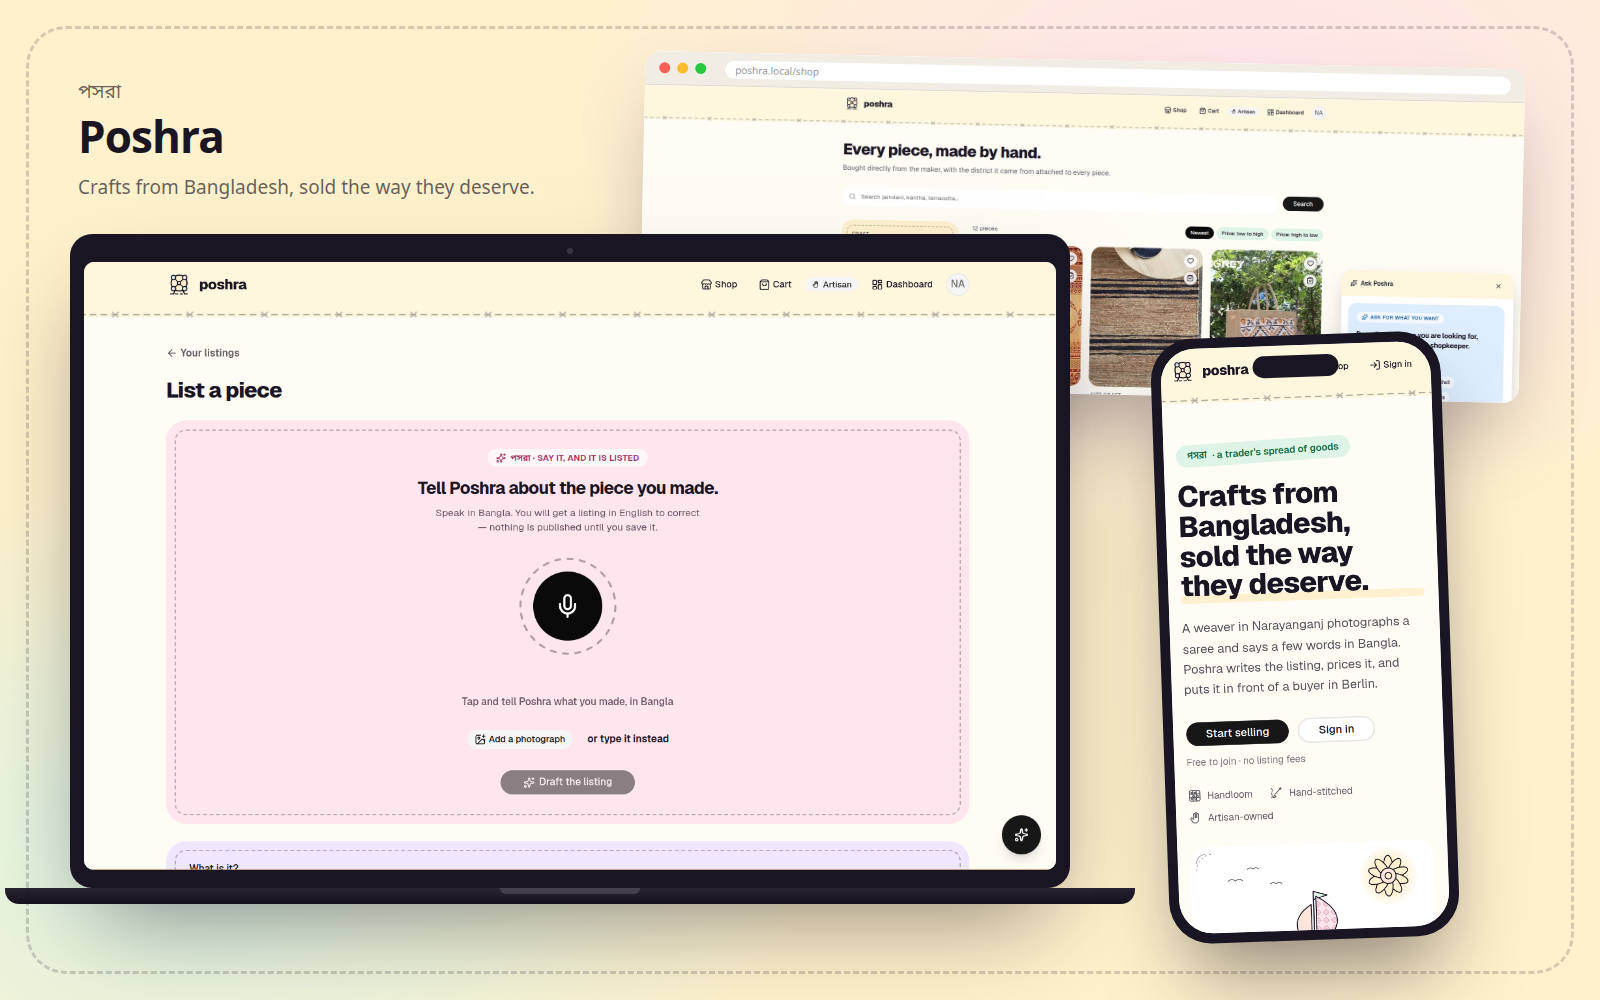
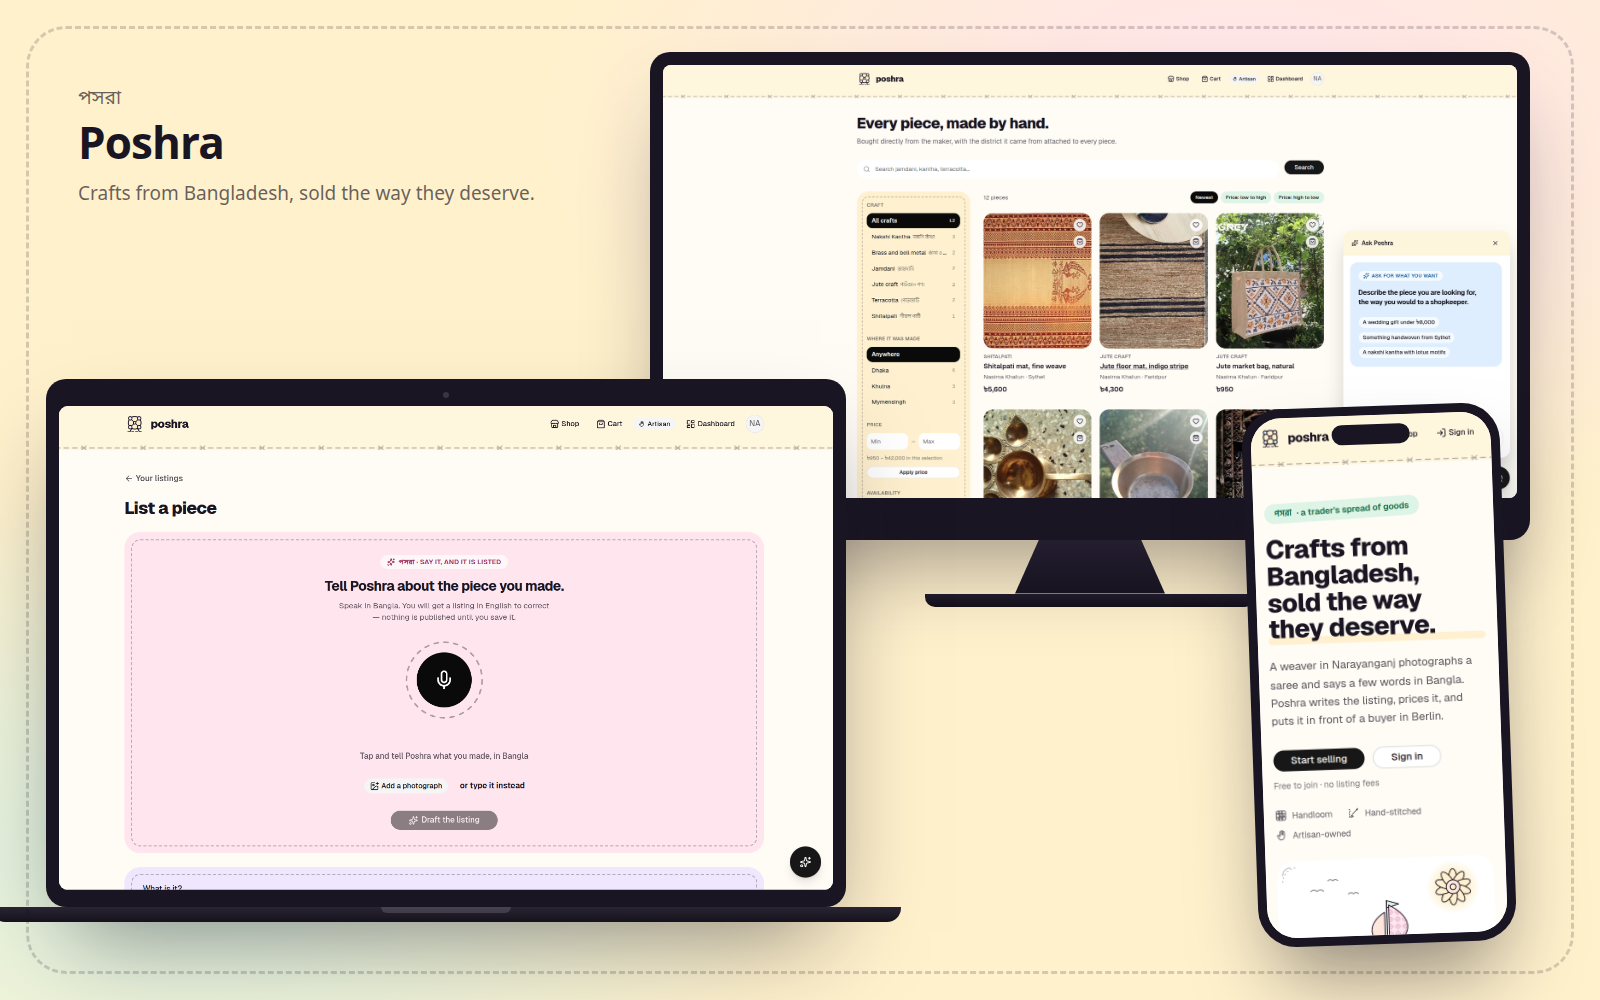
docs: rebuild the hero around three screens
A monitor with the shop, a laptop with the page an artisan speaks a listing
into, a phone with the same shop in a hand. Three devices carrying the three
things the project claims, with nothing repeated between them.

The drafting page keeps the laptop because it has to be read rather than
recognised: a grid of craft photographs says what it is at any size, a
microphone and one sentence do not.

diff --git a/docs/assets/hero.html b/docs/assets/hero.html
@@ -3,13 +3,12 @@
   <head>
     <meta charset="utf-8" />
     <style>
-      /* Composition for the README hero: a laptop with the page an artisan
-         speaks a listing into, the shop in a browser window behind it, and
-         the mobile storefront on a phone in front. Three things the project
-         claims, in one picture.
-         The drafting page takes the laptop because it is the one that has to
-         be read rather than recognised: the shop is legible as a grid of
-         photographs at any size, a microphone and a sentence are not. */
+      /* Composition for the README hero, three devices with three jobs.
+         The monitor carries the shop, which is what the thing is. The
+         laptop carries the page an artisan speaks a listing into, which is
+         what makes it different — and it has to be read rather than
+         recognised, so it gets a surface nothing crops. The phone says the
+         same storefront works in a hand. */
       :root {
         --ink: #1a1523;
         --cream: #fffcf5;
@@ -43,62 +42,56 @@
 
       .stage { position: absolute; inset: 0; }
 
-      /* ---------- browser window (behind) ---------- */
-      .browser {
-        position: absolute;
-        top: 60px;
-        right: 78px;
-        width: 880px;
-        border-radius: 16px;
+      /* ---------- monitor (back) ---------- */
+      .monitor { position: absolute; top: 52px; right: 70px; width: 880px; }
+      .monitor .panel {
+        background: var(--ink);
+        border-radius: 20px;
+        /* A wider chin than bezel: what makes a monitor read as a monitor. */
+        padding: 13px 13px 42px;
+        box-shadow: 0 45px 80px -25px rgba(26, 21, 35, 0.42);
+      }
+      .monitor .screen {
+        border-radius: 8px;
         overflow: hidden;
         background: #fff;
-        box-shadow: 0 40px 80px -20px rgba(26, 21, 35, 0.35);
-        transform: rotate(1.2deg);
       }
-      .chrome {
-        height: 34px;
-        background: #f1ece4;
-        display: flex;
-        align-items: center;
-        gap: 7px;
-        padding: 0 14px;
-        border-bottom: 1px solid rgba(26, 21, 35, 0.08);
-      }
-      .dot { width: 11px; height: 11px; border-radius: 50%; }
-      .bar {
-        margin-left: 12px;
-        height: 18px;
-        flex: 1;
-        border-radius: 9px;
-        background: #fff;
-        display: flex;
-        align-items: center;
-        padding: 0 10px;
-        font-size: 10px;
-        color: rgba(26, 21, 35, 0.5);
-      }
-      /* The window shows the top of the shop; the rest of that page is more
-         of the same grid, and the laptop is in front of it anyway. */
-      .browser .shot { position: relative; overflow: hidden; height: 300px; }
-      .browser .shot img {
+      .monitor .screen img { display: block; width: 100%; }
+      .monitor .badge {
         position: absolute;
-        display: block;
-        width: 880px;
-        max-width: none;
-        left: 0;
-        top: 0;
+        bottom: 14px;
+        left: 50%;
+        transform: translateX(-50%);
+        width: 54px;
+        height: 7px;
+        border-radius: 4px;
+        background: rgba(255, 255, 255, 0.16);
+      }
+      .monitor .neck {
+        width: 150px;
+        height: 54px;
+        margin: 0 auto;
+        background: linear-gradient(#241e30, #17131f);
+        clip-path: polygon(16% 0, 84% 0, 100% 100%, 0 100%);
+      }
+      .monitor .foot {
+        width: 330px;
+        height: 13px;
+        margin: 0 auto;
+        border-radius: 0 0 10px 10px;
+        background: linear-gradient(#211b2c, #131019);
       }
 
-      /* ---------- laptop (main) ---------- */
-      .laptop { position: absolute; left: 70px; bottom: 96px; width: 1000px; }
+      /* ---------- laptop (front left) ---------- */
+      .laptop { position: absolute; left: 46px; bottom: 78px; width: 800px; }
       .laptop .lid {
         background: var(--ink);
-        border-radius: 22px;
-        padding: 14px 14px 18px;
+        border-radius: 20px;
+        padding: 13px 13px 17px;
         box-shadow: 0 50px 90px -25px rgba(26, 21, 35, 0.5);
       }
       .laptop .screen {
-        border-radius: 10px;
+        border-radius: 9px;
         overflow: hidden;
         background: #fff;
       }
@@ -108,45 +101,45 @@
         background: #3b3542; margin: 0 auto 8px;
       }
       .laptop .base {
-        width: 1130px;
-        margin-left: -65px;
-        height: 16px;
+        width: 910px;
+        margin-left: -55px;
+        height: 15px;
         background: linear-gradient(#2a2433, #15121c);
         border-radius: 0 0 14px 14px;
         position: relative;
       }
       .laptop .notch-base {
         position: absolute; left: 50%; transform: translateX(-50%);
-        width: 140px; height: 6px; border-radius: 0 0 8px 8px;
+        width: 130px; height: 6px; border-radius: 0 0 8px 8px;
         background: rgba(255, 255, 255, 0.14);
       }
 
-      /* ---------- phone (front) ---------- */
+      /* ---------- phone (front right) ---------- */
       .phone {
         position: absolute;
-        right: 150px;
-        bottom: 60px;
-        width: 290px;
+        right: 92px;
+        bottom: 56px;
+        width: 258px;
         background: var(--ink);
-        border-radius: 42px;
-        padding: 10px;
+        border-radius: 38px;
+        padding: 9px;
         box-shadow: 0 45px 80px -20px rgba(26, 21, 35, 0.5);
         transform: rotate(-2deg);
       }
       .phone .screen {
-        border-radius: 34px;
+        border-radius: 30px;
         overflow: hidden;
         background: #fff;
         position: relative;
       }
       .phone .screen img { display: block; width: 100%; }
       .phone .island {
-        position: absolute; top: 10px; left: 50%; transform: translateX(-50%);
-        width: 86px; height: 22px; border-radius: 12px; background: var(--ink);
+        position: absolute; top: 9px; left: 50%; transform: translateX(-50%);
+        width: 78px; height: 20px; border-radius: 11px; background: var(--ink);
       }
 
       /* ---------- caption ---------- */
-      .caption { position: absolute; left: 78px; top: 70px; }
+      .caption { position: absolute; left: 78px; top: 76px; }
       .caption h1 {
         font-size: 44px; letter-spacing: -0.02em; color: var(--ink); font-weight: 800;
       }
@@ -162,14 +155,13 @@
         <p>Crafts from Bangladesh, sold the way they deserve.</p>
       </div>
 
-      <div class="browser">
-        <div class="chrome">
-          <span class="dot" style="background: #ff5f57"></span>
-          <span class="dot" style="background: #febc2e"></span>
-          <span class="dot" style="background: #28c840"></span>
-          <span class="bar">poshra.local/shop</span>
+      <div class="monitor">
+        <div class="panel">
+          <div class="screen"><img src="cap-shop.png" alt="" /></div>
+          <div class="badge"></div>
         </div>
-        <div class="shot"><img src="cap-shop.png" alt="" /></div>
+        <div class="neck"></div>
+        <div class="foot"></div>
       </div>
 
       <div class="laptop">

diff --git a/README.md b/README.md
@@ -10,7 +10,7 @@
 </p>
 
 <p align="center">
-  <img src="docs/assets/hero.png" alt="Poshra on a laptop, in a browser window and on a phone: the shop with craft filters and the assistant open, an artisan speaking a listing into being, and the mobile storefront" width="960">
+  <img src="docs/assets/hero.png" alt="Poshra on three screens: the shop with craft filters on a monitor, an artisan speaking a listing into being on a laptop, and the mobile storefront on a phone" width="960">
 </p>
 
 <p align="center">
